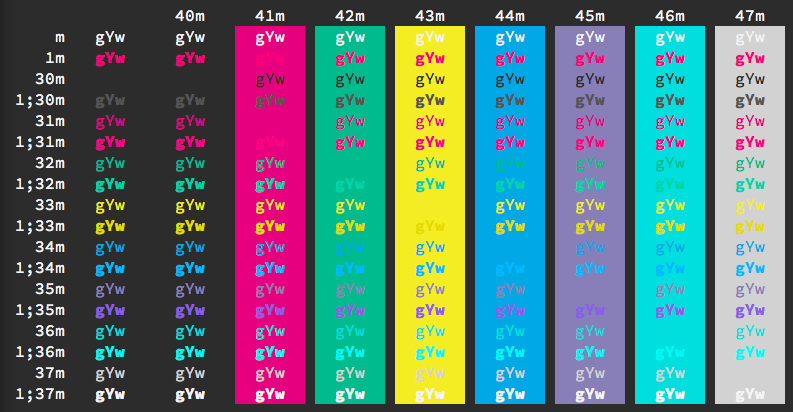
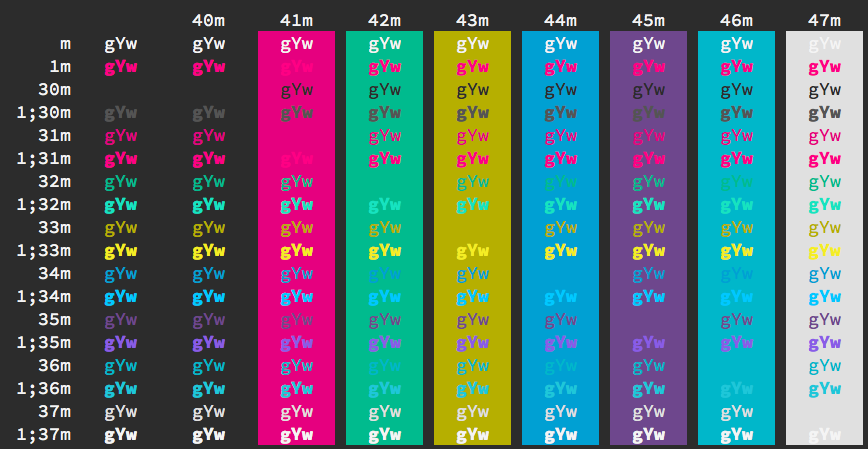
Tweaked Colors, Automated build.
I think it's a lot more usable now.  And, it's much easier to do variations!

diff --git a/src/build.rb b/src/build.rb
@@ -1,0 +1,49 @@
+#!/usr/bin/env ruby
+
+require 'erb'
+
+black       = '212121'
+red         = 'c30771'
+green       = '10A778'
+yellow      = 'A89C14'
+blue        = '008EC4'
+magenta     = '523C79'
+cyan        = '20A5BA'
+grey        = 'd9d9d9'
+dkgrey      = '424242'
+br_red      = 'fb007a'
+br_green    = '5FD7AF'
+br_yellow   = 'F3E430'
+br_blue     = '20BBFC'
+br_magenta  = '6855DE'
+br_cyan     = '4FB8CC'
+white       = 'f1f1f1'
+
+sel         = 'B6D6FD'
+cursor      = br_blue
+bold        = br_red
+
+def red(hex)
+  hex[0..1].to_i(16) / 255.0
+end
+def green(hex)
+  hex[2..3].to_i(16) / 255.0
+end
+def blue(hex)
+  hex[4..5].to_i(16) / 255.0
+end
+
+template = ERB.new(File.read('src/pencil.template'))
+
+bg = white
+fg = dkgrey
+File.open("pencil-light.itermcolors", 'w') do |f|
+  f << template.result
+end
+
+bg = black
+fg = white
+File.open("pencil-dark.itermcolors", 'w') do |f|
+  f << template.result
+end
+
